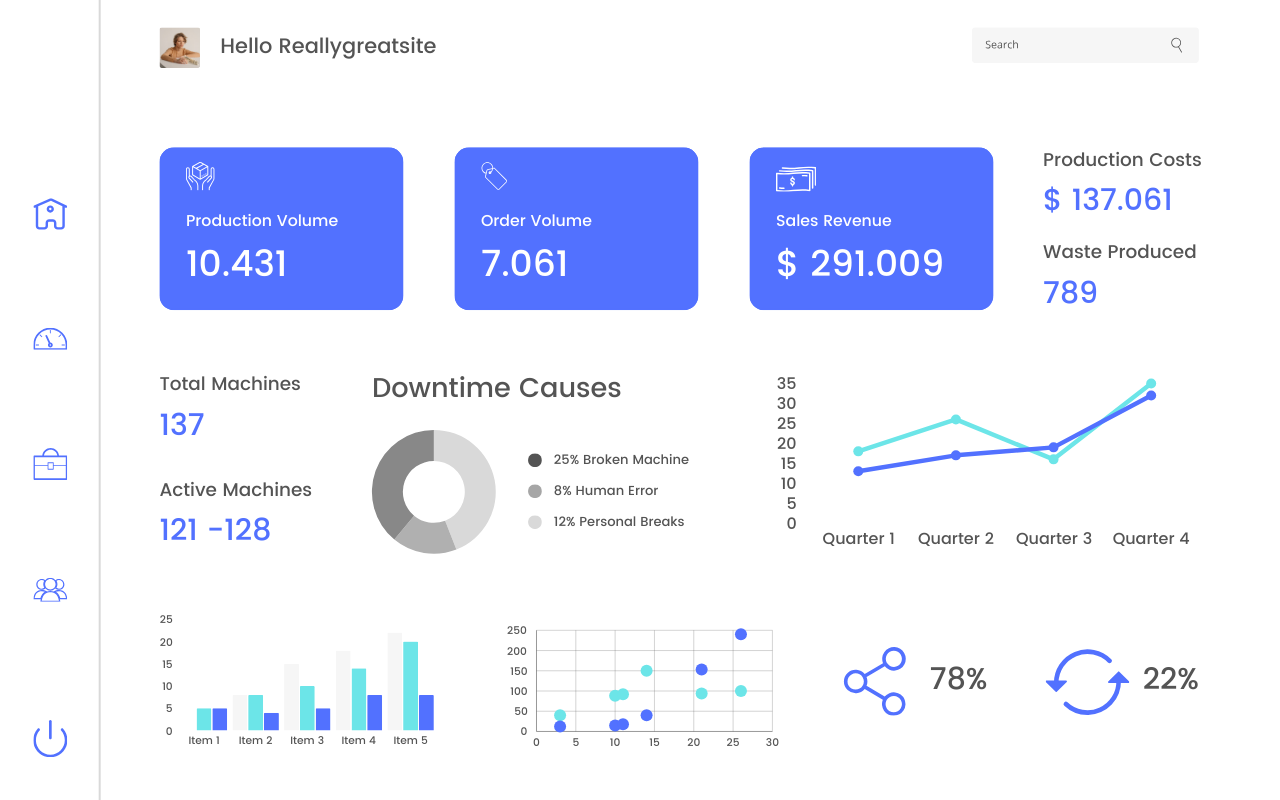
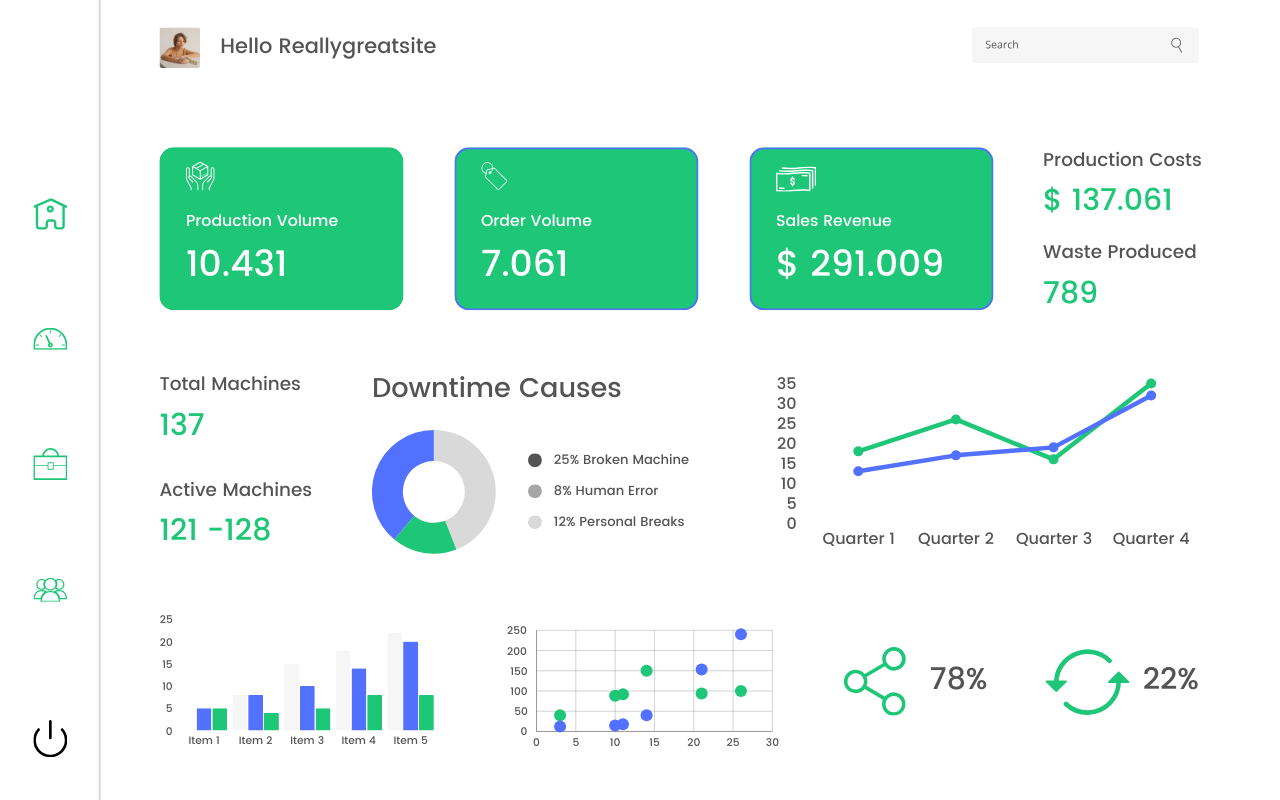
chore: Update middleware.ts and layout.js
- Comment out the '/dashboard(.*)' route in middleware.ts
- Comment out the <ClerkProvider> component in layout.js

These changes are made to temporarily disable certain functionalities in the codebase.

diff --git a/app/dashboard/_components/sideNav.jsx b/app/dashboard/_components/sideNav.jsx
@@ -1,0 +1,53 @@
+import { LayoutGrid, PiggyBank, Receipt, Shield,Icon } from 'lucide-react'
+import Image from 'next/image'
+import React from 'react'
+
+function sideNav() {
+
+    const links = [
+        {
+            name: 'Dashboard',
+            href: '/dashboard',
+            icon: LayoutGrid
+        },
+        {
+            name: 'Budget',
+            href: '/dashboard/budget',
+            icon: PiggyBank
+        },
+        {
+            name: 'Expenses',
+            href: '/dashboard/expenses',
+            icon: Receipt
+        },
+        {
+            name: 'Upgrade',
+            href: '/dashboard/categories',
+            icon: Shield
+        },
+        // {
+        //     name: 'Reports',
+        //     href: '/dashboard/reports',
+        //     icon: 'reports'
+        // }
+    ]
+
+  return (
+        <div className='h-screen border shadow-sm '>
+            <div className='mb-5 p-5 border-b-4 border-[#1ec67821]'>
+            <Image src='/logo.svg' alt='logo' width={160} height={100}/>   
+            </div>
+                
+
+            {links.map((link, index) => (
+               <h2 className='flex gap-2  text-gray-600 font-medium p-5 cursor-pointer rounded-md hover:text-primary hover:bg-[#1ec67821] hover:font-semibold'>
+                <link.icon/>
+                {link.name}
+               </h2>
+            ))}
+         
+        </div>
+  )
+}
+
+export default sideNav

diff --git a/app/_components/Header.jsx b/app/_components/Header.jsx
@@ -6,12 +6,12 @@ import Link from "next/link";
 import React from "react";
 
 const Header = () => {
-  const { user, isSignedIn } = useUser();
+  // const { user, isSignedIn } = useUser();
 
   return (
     <div className="p-5  flex justify-between items-center border shadow">
       <Image src={"/logo.svg"} alt="logo" width={160} height={100} />
-      {isSignedIn ? (
+      {/* {isSignedIn ? (
         <>
           <UserButton />
         </>
@@ -20,7 +20,12 @@ const Header = () => {
           {" "}
           <Link href={"/sign-in"}>Get Started</Link>{" "}
         </Button>
-      )}
+      )} */}
+
+<Button className="font-bold">
+          {" "}
+          <Link href={"/sign-in"}>Get Started</Link>{" "}
+        </Button>
     </div>
   );
 };

diff --git a/app/dashboard/layout.jsx b/app/dashboard/layout.jsx
@@ -1,0 +1,20 @@
+import React from 'react'
+import Sidenav from './_components/sideNav'
+
+function layout({children}) {
+  return (
+    <>
+    <div className='fixed w-64 border shadow'>
+    <Sidenav/>
+    </div>
+    <div className='mx-64 p-5'>
+    {children}
+    </div>
+    
+    </>
+       
+   
+  )
+}
+
+export default layout

diff --git a/app/layout.js b/app/layout.js
@@ -12,10 +12,10 @@ export const metadata = {
 
 export default function RootLayout({ children }) {
   return (
-    <ClerkProvider>
+    // <ClerkProvider>
     <html lang="en">
       <body className={outfit.className}>{children}</body>
     </html>
-    </ClerkProvider>
+    // </ClerkProvider>
   );
 }

diff --git a/tailwind.config.js b/tailwind.config.js
@@ -24,7 +24,7 @@ module.exports = {
         background: "hsl(var(--background))",
         foreground: "hsl(var(--foreground))",
         primary: {
-          DEFAULT: "#4845d2",
+          DEFAULT: "#1EC677",
           foreground: "hsl(var(--primary-foreground))",
         },
         secondary: {

diff --git a/middleware.ts b/middleware.ts
@@ -1,7 +1,7 @@
 import { clerkMiddleware, createRouteMatcher } from "@clerk/nextjs/server";
 
 const isProtectedRoute = createRouteMatcher([
-    '/dashboard(.*)',
+    // '/dashboard(.*)',
   ]);
 
 export default clerkMiddleware((auth, req) => {

diff --git a/app/dashboard/budget/page.jsx b/app/dashboard/budget/page.jsx
@@ -1,0 +1,13 @@
+import React from 'react'
+import CreateBudget from './_components/CreateBudget'
+
+function page() {
+  return (
+    <div>
+        
+        <CreateBudget/>
+    </div>
+  )
+}
+
+export default page

diff --git a/app/dashboard/budget/_components/CreateBudget.jsx b/app/dashboard/budget/_components/CreateBudget.jsx
@@ -1,0 +1,9 @@
+import React from 'react'
+
+function CreateBudget() {
+  return (
+    <div>CreateBudget</div>
+  )
+}
+
+export default CreateBudget
